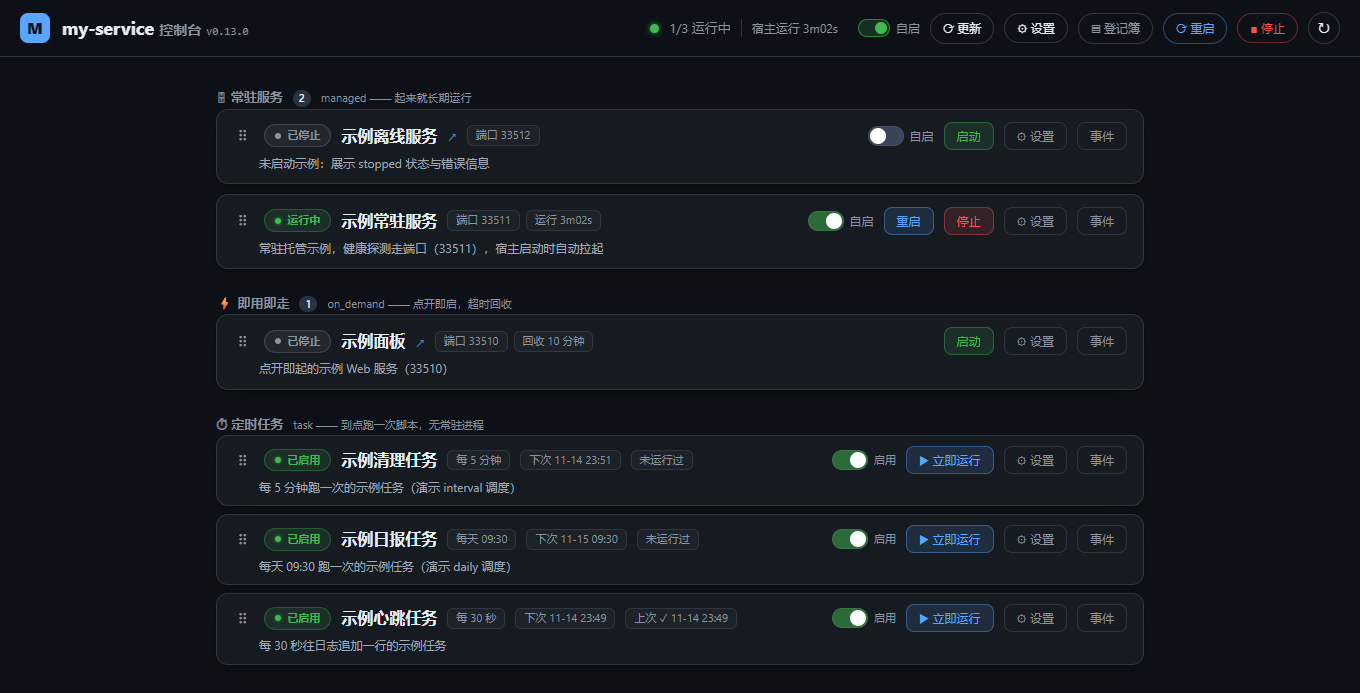
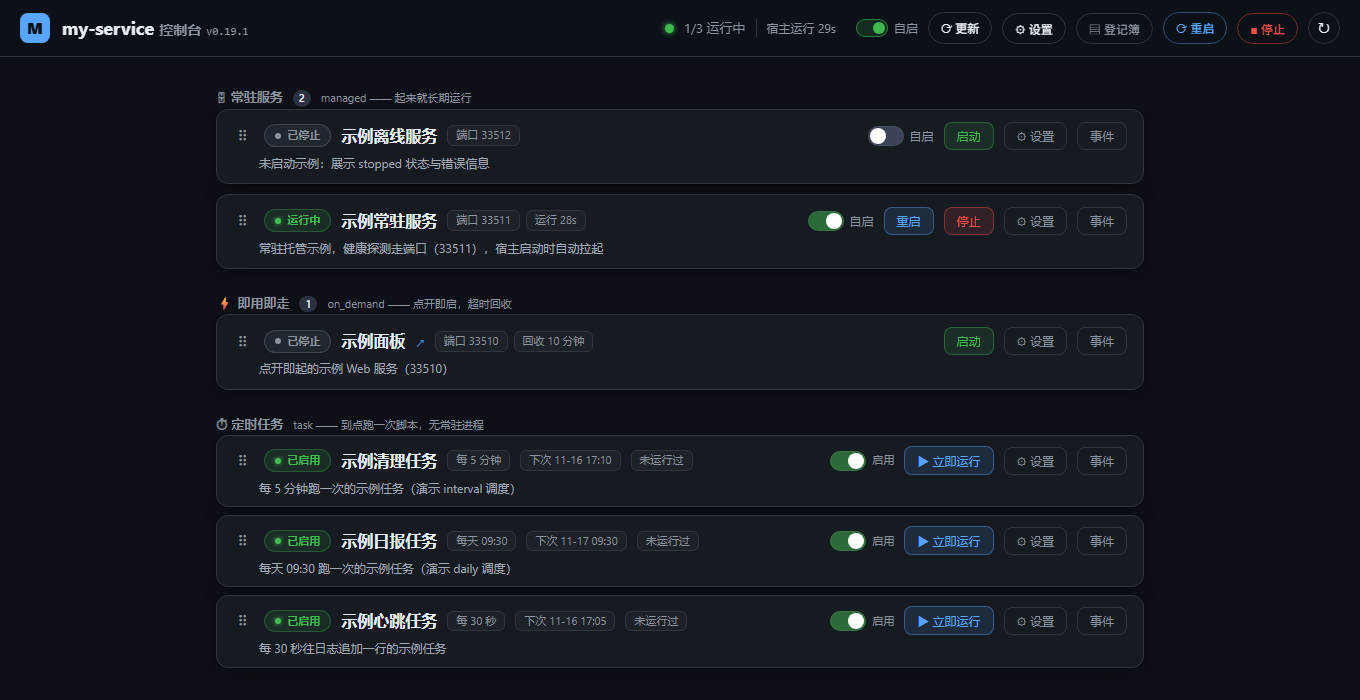
feat(site): 新增宣传单页并接入 GitHub Pages
变更：
- site/index.html：单页宣传（Hero / 痛点 / 特性 / 30 秒上手 / 面板能力 / 适合谁 / 页脚），沿用面板深色配色
- 下载按钮指向 releases/latest，版本徽章用 shields.io，发版后页面无需改动
- .github/workflows/pages.yml：site/ 变动时自动部署到 GitHub Pages
- docs/guide/images/panel.png：换成 0.19.1 demo 环境截图（原图还是 0.13.0）

修复：
- examples/demo/start-demo.ps1 仍写旧 config 结构（host/port/reg_dir），在 0.18+ 下这些键失效，
  demo 会跑成默认 1236 并撞上本机正在运行的宿主

原因：
- 需要一个对外介绍页；GitHub Pages 对公开仓库免费，与仓库同源，无需额外账号与域名

diff --git a/site/index.html b/site/index.html
@@ -1,0 +1,253 @@
+<!DOCTYPE html>
+<html lang="zh-CN">
+<head>
+<meta charset="utf-8">
+<meta name="viewport" content="width=device-width, initial-scale=1">
+<title>my-service · 面向 AI 时代的本地控制台</title>
+<meta name="description" content="面向 AI 时代的本地控制台：一份 JSON 注册条统一管理本机自建小服务的启停、健康探测、开机自启与定时调度。纯 Python 标准库，零第三方依赖。">
+<meta property="og:type" content="website">
+<meta property="og:title" content="my-service · 面向 AI 时代的本地控制台">
+<meta property="og:description" content="一份 JSON 注册条统一管理本机自建小服务的启停、健康探测、开机自启与定时调度。纯 Python 标准库，零第三方依赖。">
+<meta property="og:image" content="https://keeyangyy.github.io/my-service/panel.png">
+<meta name="twitter:card" content="summary_large_image">
+<style>
+  :root {
+    --bg: #0d1117; --card: #161b22; --card-hover: #1c2333;
+    --text: #e6edf3; --muted: #8b949e; --border: #30363d;
+    --green: #3fb950; --blue: #58a6ff; --yellow: #d29922;
+    --radius: 12px;
+  }
+  * { box-sizing: border-box; }
+  body {
+    margin: 0; background: var(--bg); color: var(--text);
+    font: 16px/1.7 system-ui, -apple-system, "Segoe UI", "Microsoft YaHei", sans-serif;
+  }
+  a { color: var(--blue); text-decoration: none; }
+  a:hover { text-decoration: underline; }
+  .wrap { max-width: 1040px; margin: 0 auto; padding: 0 24px; }
+  code {
+    font-family: ui-monospace, SFMono-Regular, Consolas, monospace;
+    background: #1f2630; padding: 2px 6px; border-radius: 5px; font-size: .92em;
+  }
+  pre {
+    background: #0b0f14; border: 1px solid var(--border); border-radius: var(--radius);
+    padding: 18px 20px; overflow-x: auto; font-size: 14px; line-height: 1.65;
+  }
+  pre code { background: none; padding: 0; }
+
+  header.hero { padding: 72px 0 56px; text-align: center; }
+  .badges { margin-bottom: 18px; }
+  .badges span {
+    display: inline-block; margin: 0 4px; padding: 2px 10px; font-size: 12px;
+    color: var(--muted); border: 1px solid var(--border); border-radius: 999px;
+  }
+  h1 { font-size: 44px; margin: 0 0 12px; letter-spacing: -.5px; }
+  .tagline { font-size: 21px; color: var(--text); margin: 0 0 14px; }
+  .lede { font-size: 16px; color: var(--muted); max-width: 720px; margin: 0 auto 30px; }
+  .cta { display: flex; gap: 12px; justify-content: center; flex-wrap: wrap; margin-bottom: 44px; }
+  .btn {
+    display: inline-block; padding: 11px 22px; border-radius: 9px; font-weight: 600;
+    border: 1px solid var(--border); color: var(--text); background: var(--card);
+  }
+  .btn.primary { background: #238636; border-color: #238636; color: #fff; }
+  .btn:hover { text-decoration: none; background: var(--card-hover); }
+  .btn.primary:hover { background: #2ea043; }
+  .shot { max-width: 100%; border: 1px solid var(--border); border-radius: var(--radius); display: block; margin: 0 auto; }
+
+  section { padding: 56px 0; border-top: 1px solid var(--border); }
+  h2 { font-size: 26px; margin: 0 0 8px; }
+  .sub { color: var(--muted); margin: 0 0 30px; }
+  .grid { display: grid; gap: 16px; grid-template-columns: repeat(auto-fit, minmax(280px, 1fr)); }
+  .card {
+    background: var(--card); border: 1px solid var(--border);
+    border-radius: var(--radius); padding: 20px 22px;
+  }
+  .card h3 { margin: 0 0 8px; font-size: 17px; }
+  .card p { margin: 0; color: var(--muted); font-size: 15px; }
+  .card .ico { font-size: 20px; margin-bottom: 10px; }
+
+  .pains { display: grid; gap: 10px; grid-template-columns: repeat(auto-fit, minmax(190px, 1fr)); }
+  .pain {
+    background: var(--card); border: 1px solid var(--border); border-radius: 10px;
+    padding: 12px 16px; color: var(--muted); font-size: 15px;
+  }
+  .pain b { color: var(--text); font-weight: 600; }
+
+  .steps { display: grid; gap: 16px; grid-template-columns: repeat(auto-fit, minmax(260px, 1fr)); }
+  .step { counter-increment: st; }
+  .step::before {
+    content: counter(st); display: inline-flex; width: 26px; height: 26px;
+    align-items: center; justify-content: center; border-radius: 50%;
+    background: #238636; color: #fff; font-size: 14px; font-weight: 700; margin-bottom: 10px;
+  }
+  .steps { counter-reset: st; }
+
+  .who { display: grid; gap: 12px; grid-template-columns: repeat(auto-fit, minmax(240px, 1fr)); }
+  .who div {
+    border-left: 3px solid var(--green); padding: 4px 0 4px 14px; color: var(--muted);
+  }
+  .who b { color: var(--text); }
+
+  footer {
+    padding: 40px 0 60px; border-top: 1px solid var(--border);
+    color: var(--muted); font-size: 14px; text-align: center;
+  }
+  footer a { margin: 0 8px; }
+  .dot { color: var(--green); }
+
+  /* 窄屏：grid 子项默认 min-width:auto 会被长代码块撑破，必须先归零 */
+  html, body { max-width: 100%; overflow-x: clip; }
+  .grid > *, .steps > *, .who > *, .pains > * { min-width: 0; }
+  pre { max-width: 100%; white-space: pre-wrap; word-break: break-word; }
+  .tagline, .lede, h1, h2, .pain, .card p, .who div { overflow-wrap: anywhere; }
+  .badges { display: flex; flex-wrap: wrap; justify-content: center; gap: 6px; }
+  .badges span { margin: 0; }
+
+  @media (max-width: 680px) {
+    .wrap { padding: 0 16px; }
+    header.hero { padding: 40px 0 32px; }
+    h1 { font-size: 32px; }
+    .tagline { font-size: 18px; }
+    .lede { font-size: 15px; }
+    h2 { font-size: 21px; }
+    section { padding: 36px 0; }
+    pre { font-size: 12px; padding: 14px 16px; }
+    .cta { gap: 10px; }
+    .btn { padding: 10px 18px; font-size: 15px; }
+  }
+</style>
+</head>
+<body>
+
+<header class="hero wrap">
+  <div class="badges">
+    <span>Windows 10 / 11</span>
+    <span>Python 3.10+</span>
+    <span>零第三方依赖</span>
+    <span><img src="https://img.shields.io/github/v/release/keeyangyy/my-service?label=release&color=3fb950" alt="release" style="vertical-align:-3px"></span>
+    <span>MIT</span>
+  </div>
+  <h1>my-service</h1>
+  <p class="tagline">面向 AI 时代的本地控制台——把你亲手写的那些小服务，收进一处统一管理。</p>
+  <p class="lede">
+    写一个服务变容易了，但怎么起、怎么停、活着没有、开机要不要自启、到点跑不跑、出错去哪看，
+    每个小服务都得重来一遍——而这里，一份 JSON 注册条就能把这些接管掉。
+  </p>
+  <div class="cta">
+    <a class="btn primary" href="https://github.com/keeyangyy/my-service/releases/latest">下载最新版</a>
+    <a class="btn" href="https://github.com/keeyangyy/my-service">在 GitHub 查看</a>
+  </div>
+  <img class="shot" src="panel.png" alt="控制台面板">
+</header>
+
+<section class="wrap">
+  <h2>每个自建服务，都在重复同一套脏活</h2>
+  <p class="sub">这些和业务无关，但少一样，服务就"不像个正经服务"。</p>
+  <div class="pains">
+    <div class="pain"><b>起停脚本</b><br>每写一个服务就配一份 start/stop，还要处理残留进程</div>
+    <div class="pain"><b>健康判断</b><br>端口通了不等于活着，HTTP 200 也可能是别人的服务</div>
+    <div class="pain"><b>开机自启</b><br>快捷方式、计划任务、系统服务……每家做法都不一样</div>
+    <div class="pain"><b>定时执行</b><br>错过一次就断档，还得自己防重叠、防连发</div>
+    <div class="pain"><b>日志与审计</b><br>出事了翻控制台窗口，找不到"几点几分谁重启的"</div>
+    <div class="pain"><b>状态漂移</b><br>进程崩了，面板还显示 running</div>
+  </div>
+</section>
+
+<section class="wrap">
+  <h2>一份注册条，接管整套运维</h2>
+  <p class="sub">声明式接入：写入 <code>reg/services/&lt;名字&gt;.json</code> 即生效，不用改框架代码。</p>
+  <div class="grid">
+    <div class="card">
+      <div class="ico">📄</div>
+      <h3>一份 JSON = 一个服务</h3>
+      <p>路径、启停入口、健康判据、自启与超时全部写在注册条里；保存即生效，无需重启宿主。</p>
+    </div>
+    <div class="card">
+      <div class="ico">🎛</div>
+      <h3>三种托管形态</h3>
+      <p><code>managed</code> 常驻托管、<code>on_demand</code> 点开才起并空闲回收、<code>task</code> 到点跑一次。管不了进程时还有点火脚本形态。</p>
+    </div>
+    <div class="card">
+      <div class="ico">🩺</div>
+      <h3>健康 + 身份双判定</h3>
+      <p>HTTP / 端口 / pidfile / 进程名可任意组合；还会核对"端口上跑的是不是你"，不是就拒绝停止。</p>
+    </div>
+    <div class="card">
+      <div class="ico">⏰</div>
+      <h3>定时调度</h3>
+      <p>daily / weekly / interval，超时强杀整棵进程树，错过计划可选补跑，绝不堆积连发。</p>
+    </div>
+    <div class="card">
+      <div class="ico">📜</div>
+      <h3>结构化审计</h3>
+      <p>每次启停与调度写进 <code>host.jsonl</code>，面板内直接检索"谁在几点动了什么"。</p>
+    </div>
+    <div class="card">
+      <div class="ico">🪶</div>
+      <h3>零第三方依赖</h3>
+      <p>纯 Python 标准库 + 原生 JavaScript，不用装包管理器，解压就能跑。</p>
+    </div>
+  </div>
+</section>
+
+<section class="wrap">
+  <h2>30 秒上手</h2>
+  <p class="sub">解压、启动、打开面板——不需要装 Docker，也不需要写代码。</p>
+  <div class="steps">
+    <div class="step card">
+      <h3>下载解压</h3>
+      <p>从 Releases 取最新的 <code>my-service-x.y.z.zip</code>，解压到任意目录（需要系统 Python 3.10+）。</p>
+    </div>
+    <div class="step card">
+      <h3>启动宿主</h3>
+      <pre><code>pwsh -File run/start.ps1</code></pre>
+    </div>
+    <div class="step card">
+      <h3>打开面板</h3>
+      <p>浏览器访问 <code>http://127.0.0.1:1236</code>，或在 <code>run/</code> 里双击 <code>Dashboard.url</code>。</p>
+    </div>
+  </div>
+  <p class="sub" style="margin-top:26px">懒得手写配置？把服务目录和启停方式告诉 AI，让它帮你生成一份注册条：</p>
+<pre><code>{
+  "path": "C:/path/to/your-service",
+  "display": "your-service",
+  "mode": "on_demand",
+  "start": { "entry": "src/server.py" },
+  "stop":  { "script": "run/stop.ps1" },
+  "identity": { "http": "http://127.0.0.1:33510/health" },
+  "settings": { "state": "active", "idle_timeout_sec": 600 }
+}</code></pre>
+</section>
+
+<section class="wrap">
+  <h2>面板能做什么</h2>
+  <div class="grid">
+    <div class="card"><h3>服务卡片</h3><p>状态、端口、置信度一眼可见；启动 / 停止 / 重启，点卡片直接打开服务页面。</p></div>
+    <div class="card"><h3>定时任务</h3><p>启用开关、立即运行、行内修改时刻与间隔，并展示上次执行结果。</p></div>
+    <div class="card"><h3>事件登记簿</h3><p>按服务或失败筛选，看清每次启停的耗时与原因。</p></div>
+    <div class="card"><h3>编排器设置</h3><p>空闲回收时长、开机自启、更新与备份，都在面板里完成。</p></div>
+  </div>
+</section>
+
+<section class="wrap">
+  <h2>适合谁</h2>
+  <div class="who">
+    <div><b>写了很多小工具的人</b><br>爬虫、签到、看板、模型服务，散在各处，缺一个统一入口。</div>
+    <div><b>24 小时开着的家用主机</b><br>需要开机自启、远程看状态，又不想为几个脚本上 Docker。</div>
+    <div><b>和 AI 会话一起写服务的人</b><br>AI 帮你把服务写出来了，运维这层交给它；CLI 与 API 也能直接给 agent 用。</div>
+    <div><b>不喜欢装依赖的人</b><br>只有 Python 标准库，卸掉只需要删掉一个目录。</div>
+  </div>
+</section>
+
+<footer>
+  <div>my-service · 面向 AI 时代的本地控制台 <span class="dot">●</span> MIT License</div>
+  <div style="margin-top:10px">
+    <a href="https://github.com/keeyangyy/my-service/blob/master/docs/guide/usage.md">文档</a>
+    <a href="https://github.com/keeyangyy/my-service/blob/master/docs/guide/registration.md">注册条规范</a>
+    <a href="https://github.com/keeyangyy/my-service/blob/master/CHANGELOG.md">更新日志</a>
+    <a href="https://github.com/keeyangyy/my-service">GitHub</a>
+  </div>
+</footer>
+
+</body>
+</html>
